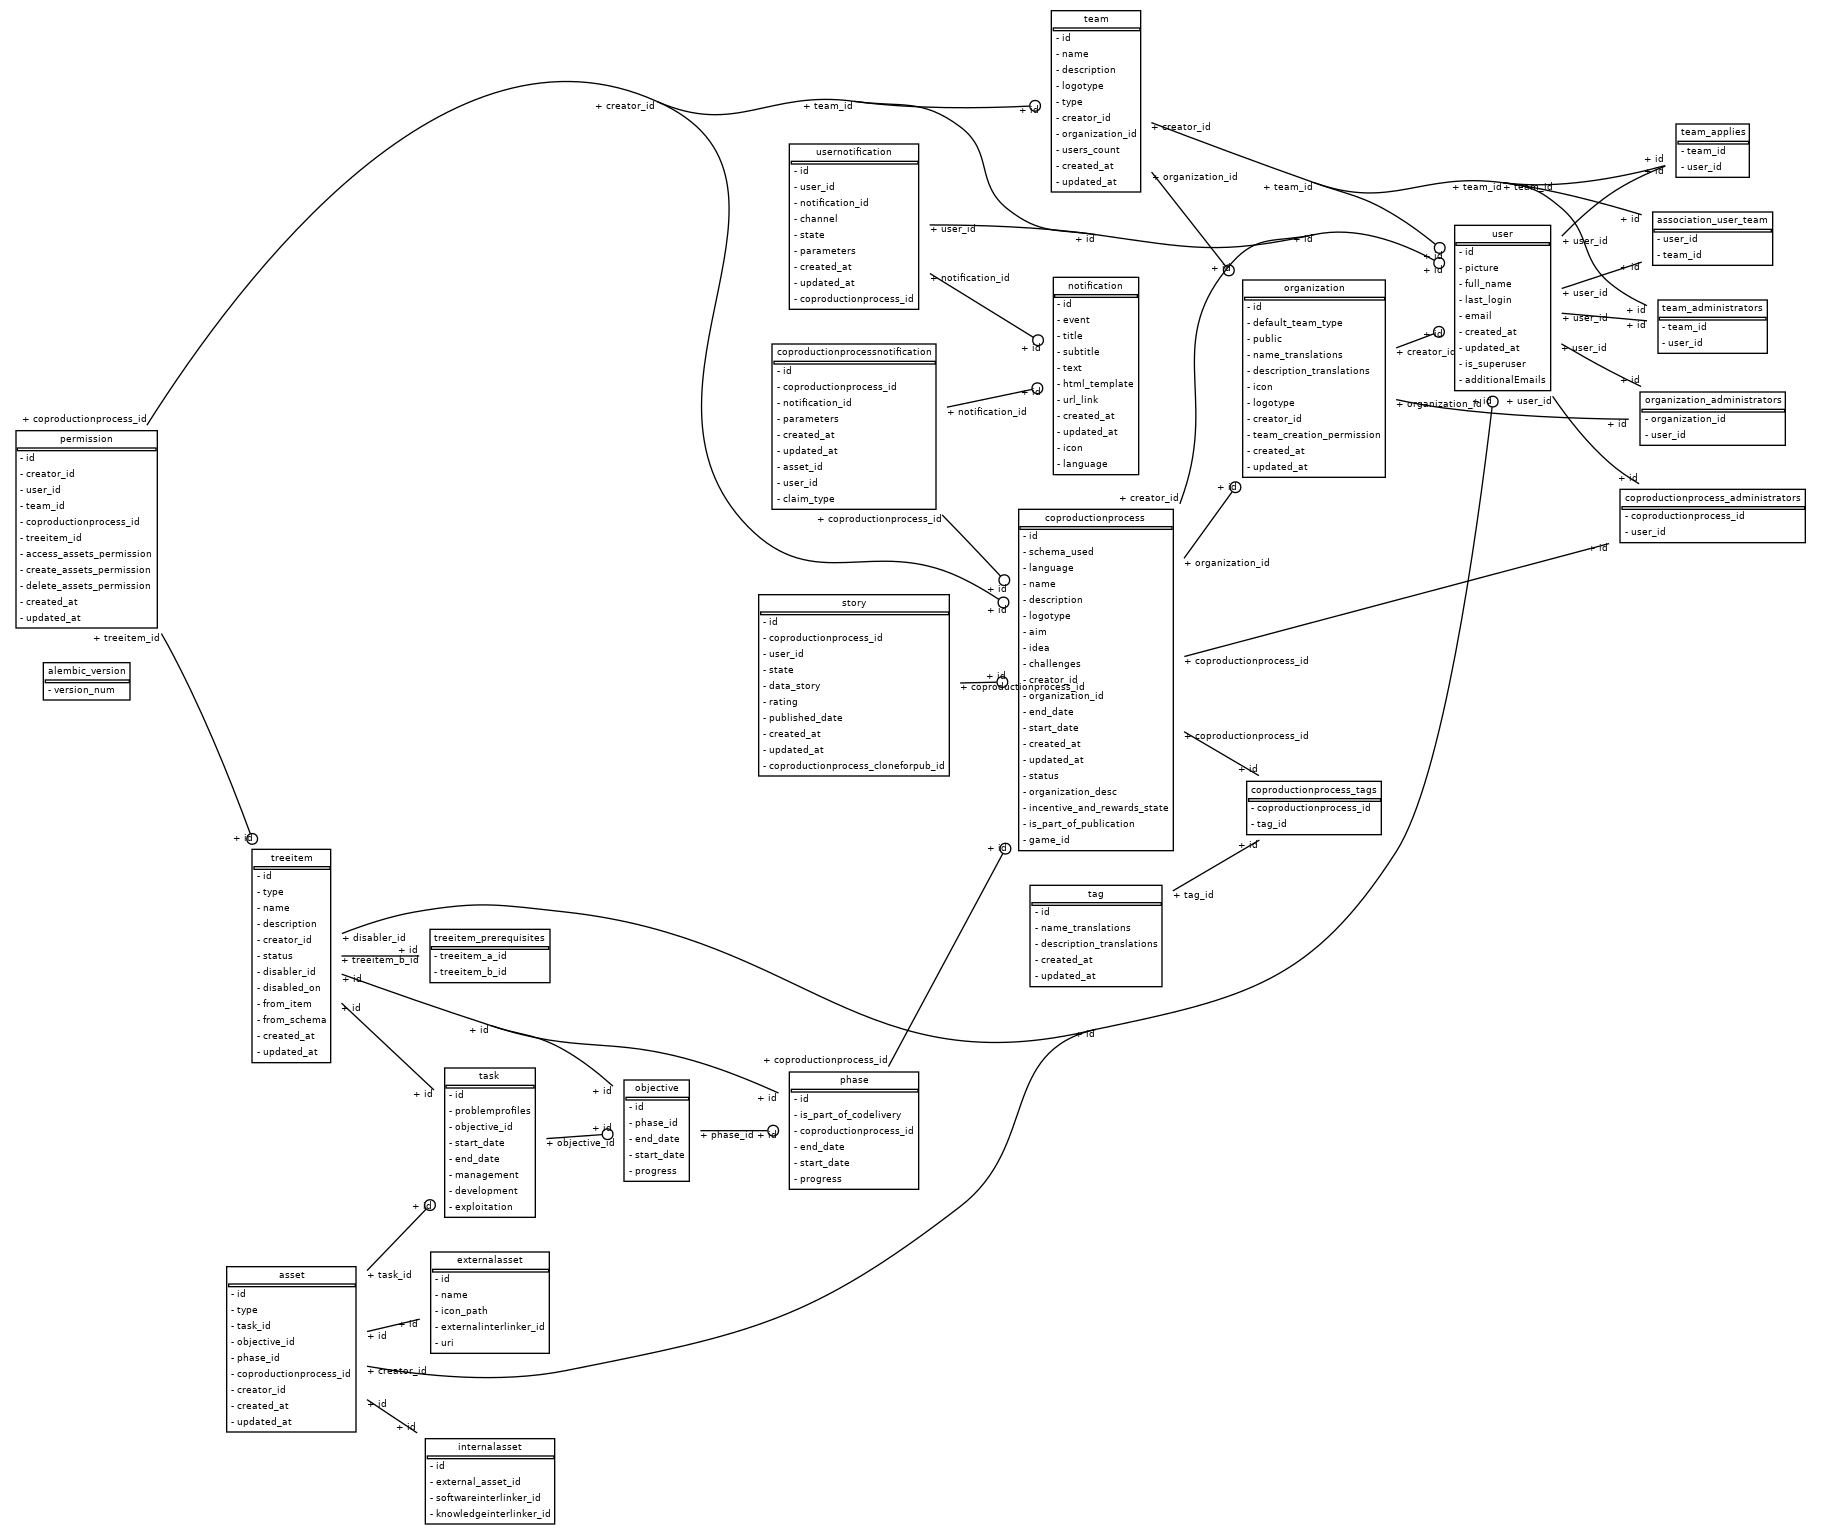
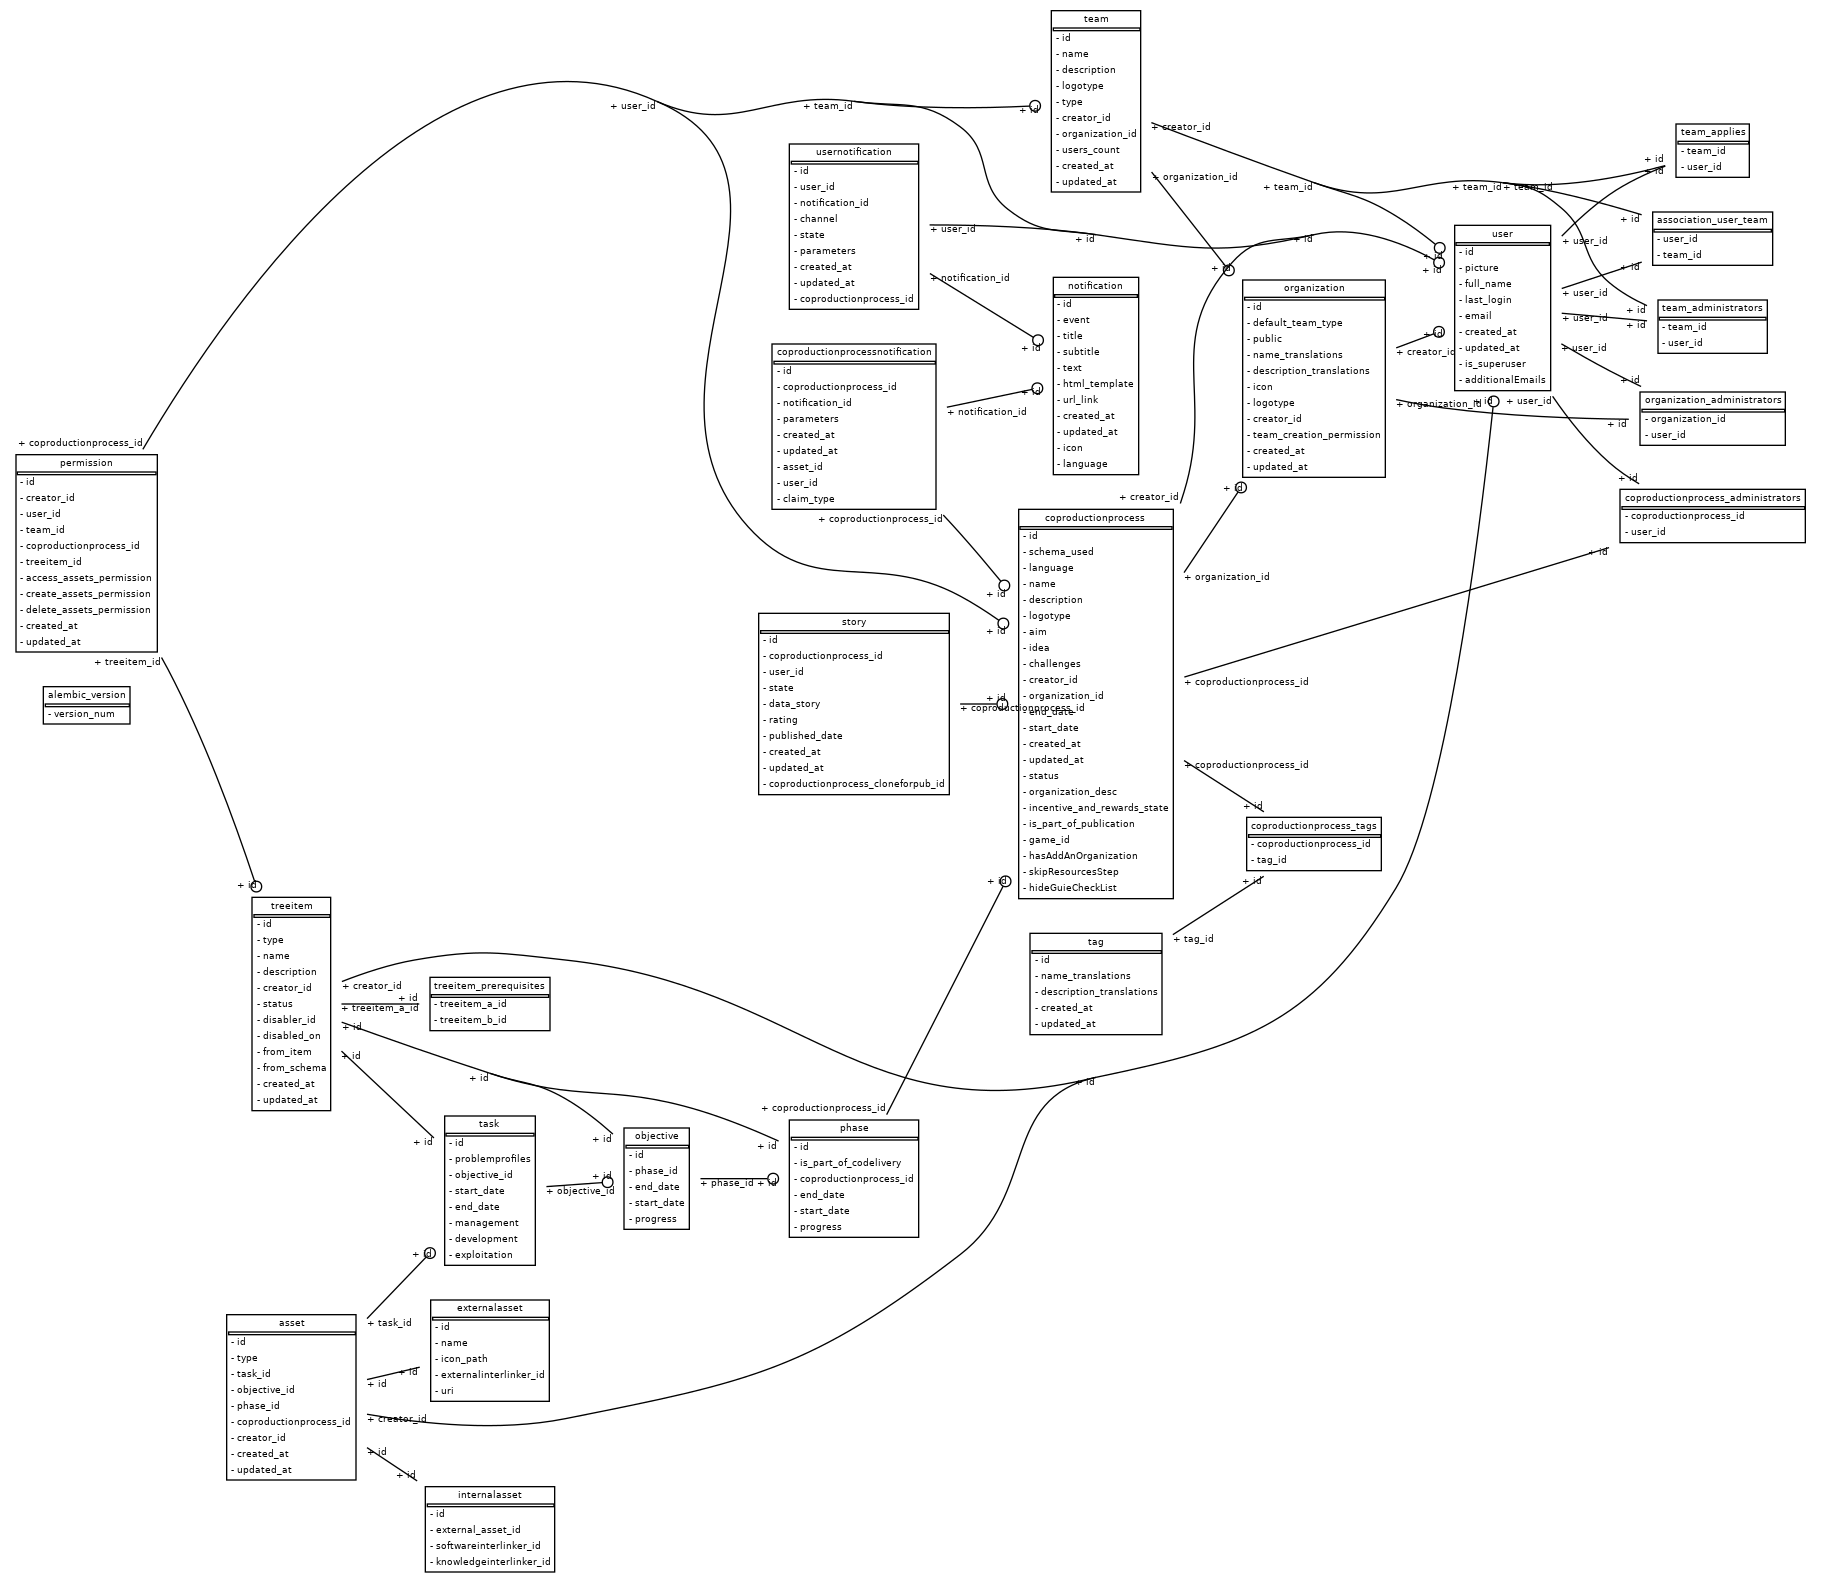
Adding a tonggle to enable start guide

diff --git a/coproduction/app/permissions/crud.py b/coproduction/app/permissions/crud.py
@@ -205,6 +205,8 @@ class CRUDPermission(CRUDBase[Permission, schemas.PermissionCreate, schemas.Perm
     def get_for_user_and_treeitem(
         self, db: Session, user: models.User, treeitem: models.TreeItem
     ):
+        print('Llega a preguntar por los assets:')
+        print(db)
         return db.query(
             Permission
         ).filter(
@@ -235,6 +237,8 @@ class CRUDPermission(CRUDBase[Permission, schemas.PermissionCreate, schemas.Perm
     def get_dict_for_user_and_treeitem(self, db: Session, treeitem: models.TreeItem, user: models.User):
         if user in treeitem.coproductionprocess.administrators:
             return GRANT_ALL
+        print('Llega a preguntar por los user tree :')
+        print(db)
         permissions = self.get_for_user_and_treeitem(db=db, user=user, treeitem=treeitem)
 
         final_permissions_dict = copy.deepcopy(DENY_ALL)
@@ -267,6 +271,8 @@ class CRUDPermission(CRUDBase[Permission, schemas.PermissionCreate, schemas.Perm
         if user in task.coproductionprocess.administrators:
             return True
         if permission in PERMS:
+            print('Pregunta por User Can :')
+            print(db)
             perms : dict = self.get_dict_for_user_and_treeitem(db=db, treeitem=task, user=user)
             return perms[permission]
         raise Exception(permission + " is not a valid permission")

diff --git a/coproduction/alembic/versions/12a460d28a99_addingfieldhideguide.py b/coproduction/alembic/versions/12a460d28a99_addingfieldhideguide.py
@@ -1,0 +1,28 @@
+"""addingFieldHideGuide
+
+Revision ID: 12a460d28a99
+Revises: 997e03d380bd
+Create Date: 2023-04-18 11:31:54.754206
+
+"""
+from alembic import op
+import sqlalchemy as sa
+
+
+# revision identifiers, used by Alembic.
+revision = '12a460d28a99'
+down_revision = '997e03d380bd'
+branch_labels = None
+depends_on = None
+
+
+def upgrade():
+    # ### commands auto generated by Alembic - please adjust! ###
+    op.add_column('coproductionprocess', sa.Column('hideGuieCheckList', sa.Boolean(), nullable=True))
+    # ### end Alembic commands ###
+
+
+def downgrade():
+    # ### commands auto generated by Alembic - please adjust! ###
+    op.drop_column('coproductionprocess', 'hideGuieCheckList')
+    # ### end Alembic commands ###

diff --git a/coproduction/app/api/api_v1/assets.py b/coproduction/app/api/api_v1/assets.py
@@ -257,7 +257,6 @@ async def read_asset(
     *,
     db: Session = Depends(deps.get_db),
     id: uuid.UUID,
-    asset_in: schemas.AssetPatch,
     current_user: Optional[models.User] = Depends(deps.get_current_active_user),
     token: str = Depends(deps.get_current_active_token),
 ) -> Any:
@@ -266,7 +265,7 @@ async def read_asset(
     """
 
     if asset := await crud.asset.get(db=db, id=id):
-        if not crud.asset.can_read(asset):
+        if not crud.asset.can_read(db,current_user,asset.task):
             raise HTTPException(status_code=403, detail="Not enough permissions")
         return asset
     raise HTTPException(status_code=404, detail="Asset not found")

diff --git a/coproduction/app/coproductionprocesses/schemas.py b/coproduction/app/coproductionprocesses/schemas.py
@@ -26,6 +26,7 @@ class CoproductionProcessBase(BaseModel):
     #Optional field defined just by the user:
     hasAddAnOrganization : Optional[bool]
     skipResourcesStep : Optional[bool]
+    hideGuieCheckList : Optional[bool]
 
     is_part_of_publication: Optional[bool]
     game_id: Optional[str]
@@ -49,6 +50,7 @@ class CoproductionProcessPatch(CoproductionProcessCreate):
     #Optional field defined just by the user:
     hasAddAnOrganization : Optional[bool]
     skipResourcesStep : Optional[bool]
+    hideGuieCheckList : Optional[bool]
 
 
 class CoproductionProcess(CoproductionProcessBase):

diff --git a/coproduction/app/assets/crud.py b/coproduction/app/assets/crud.py
@@ -404,6 +404,8 @@ class CRUDAsset(CRUDBase[Asset, AssetCreate, AssetPatch]):
     # CRUD Permissions
 
     def can_create(self, db : Session, user: models.User, task: models.TreeItem):
+        print('entra en can_create')
+        print(db)
         return permissionsCrud.user_can(db=db, user=user, task=task, permission="create_assets_permission")
 
     def can_list(self, db : Session, user: models.User, task: models.TreeItem):

diff --git a/coproduction/app/coproductionprocesses/models.py b/coproduction/app/coproductionprocesses/models.py
@@ -42,6 +42,7 @@ class CoproductionProcess(BaseModel):
     #-------------
     hasAddAnOrganization =Column(Boolean,nullable=True)
     skipResourcesStep =Column(Boolean,nullable=True)
+    hideGuieCheckList =Column(Boolean,nullable=True)
     #-------------
 
     is_part_of_publication = Column(Boolean,nullable=True)
